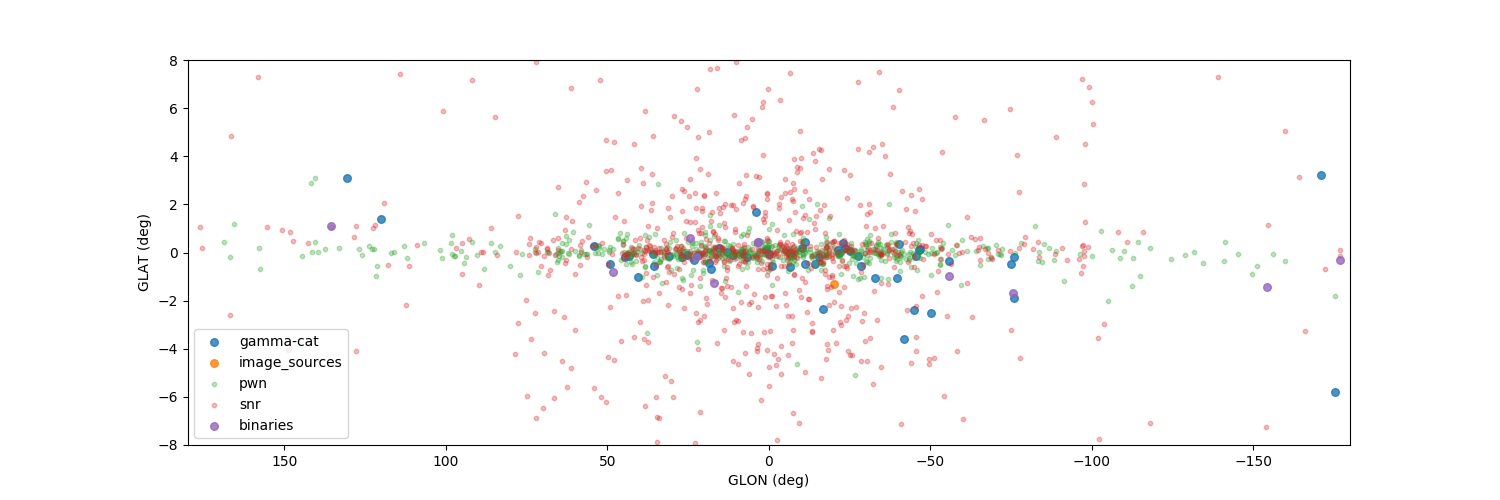
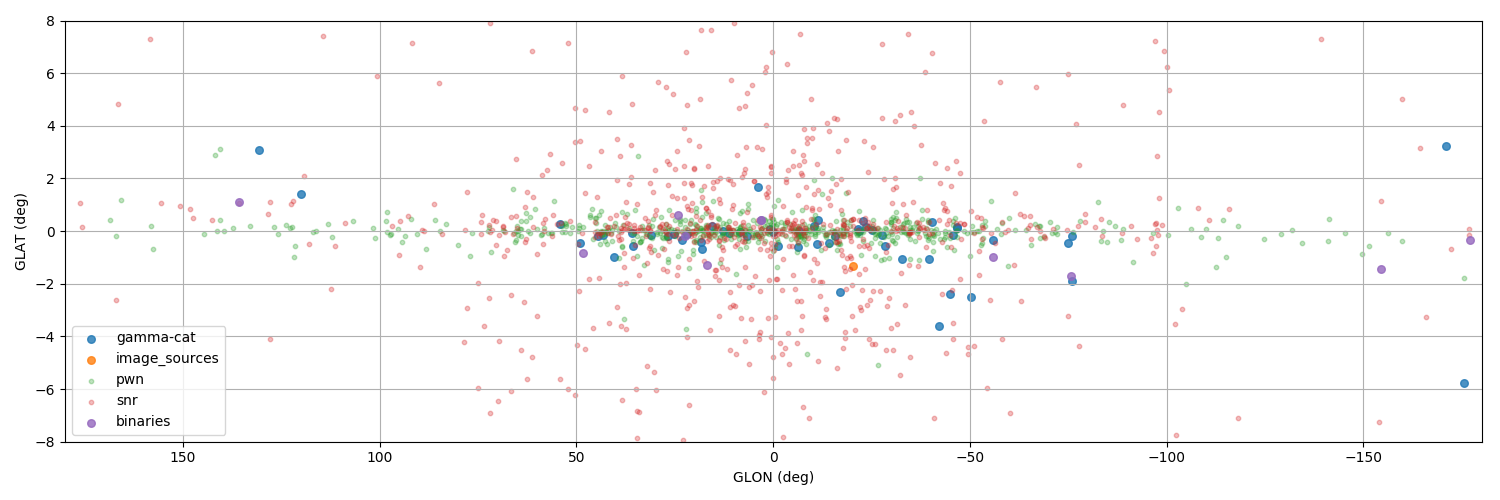
update

diff --git a/sky_model_checks/source_parameter_distributions.py b/sky_model_checks/source_parameter_distributions.py
@@ -155,14 +155,17 @@ def plot_sky_positions(data):
 
     ax.legend(loc='best')
     ax.set_xlim(180, -180)
-    ax.set_ylim(-90, 90)
+    ax.set_ylim(-60, 60)
     ax.set_xlabel('GLON (deg)')
     ax.set_ylabel('GLAT (deg)')
+    ax.grid()
+    fig.tight_layout()
     filename = 'ctadc_skymodel_gps_sources_sky_positions.png'
     print('Writing {}'.format(filename))
     fig.savefig(filename)
 
     ax.set_ylim(-8, 8)
+    fig.tight_layout()
     filename = 'ctadc_skymodel_gps_sources_sky_positions_gps.png'
     print('Writing {}'.format(filename))
     fig.savefig(filename)
@@ -184,6 +187,7 @@ def plot_glon_distribution(data):
     ax.legend(loc='best')
     ax.set_xlim(180, -180)
     ax.set_xlabel('GLON (deg)')
+    fig.tight_layout()
     filename = 'ctadc_skymodel_gps_sources_glon.png'
     print('Writing {}'.format(filename))
     fig.savefig(filename)
